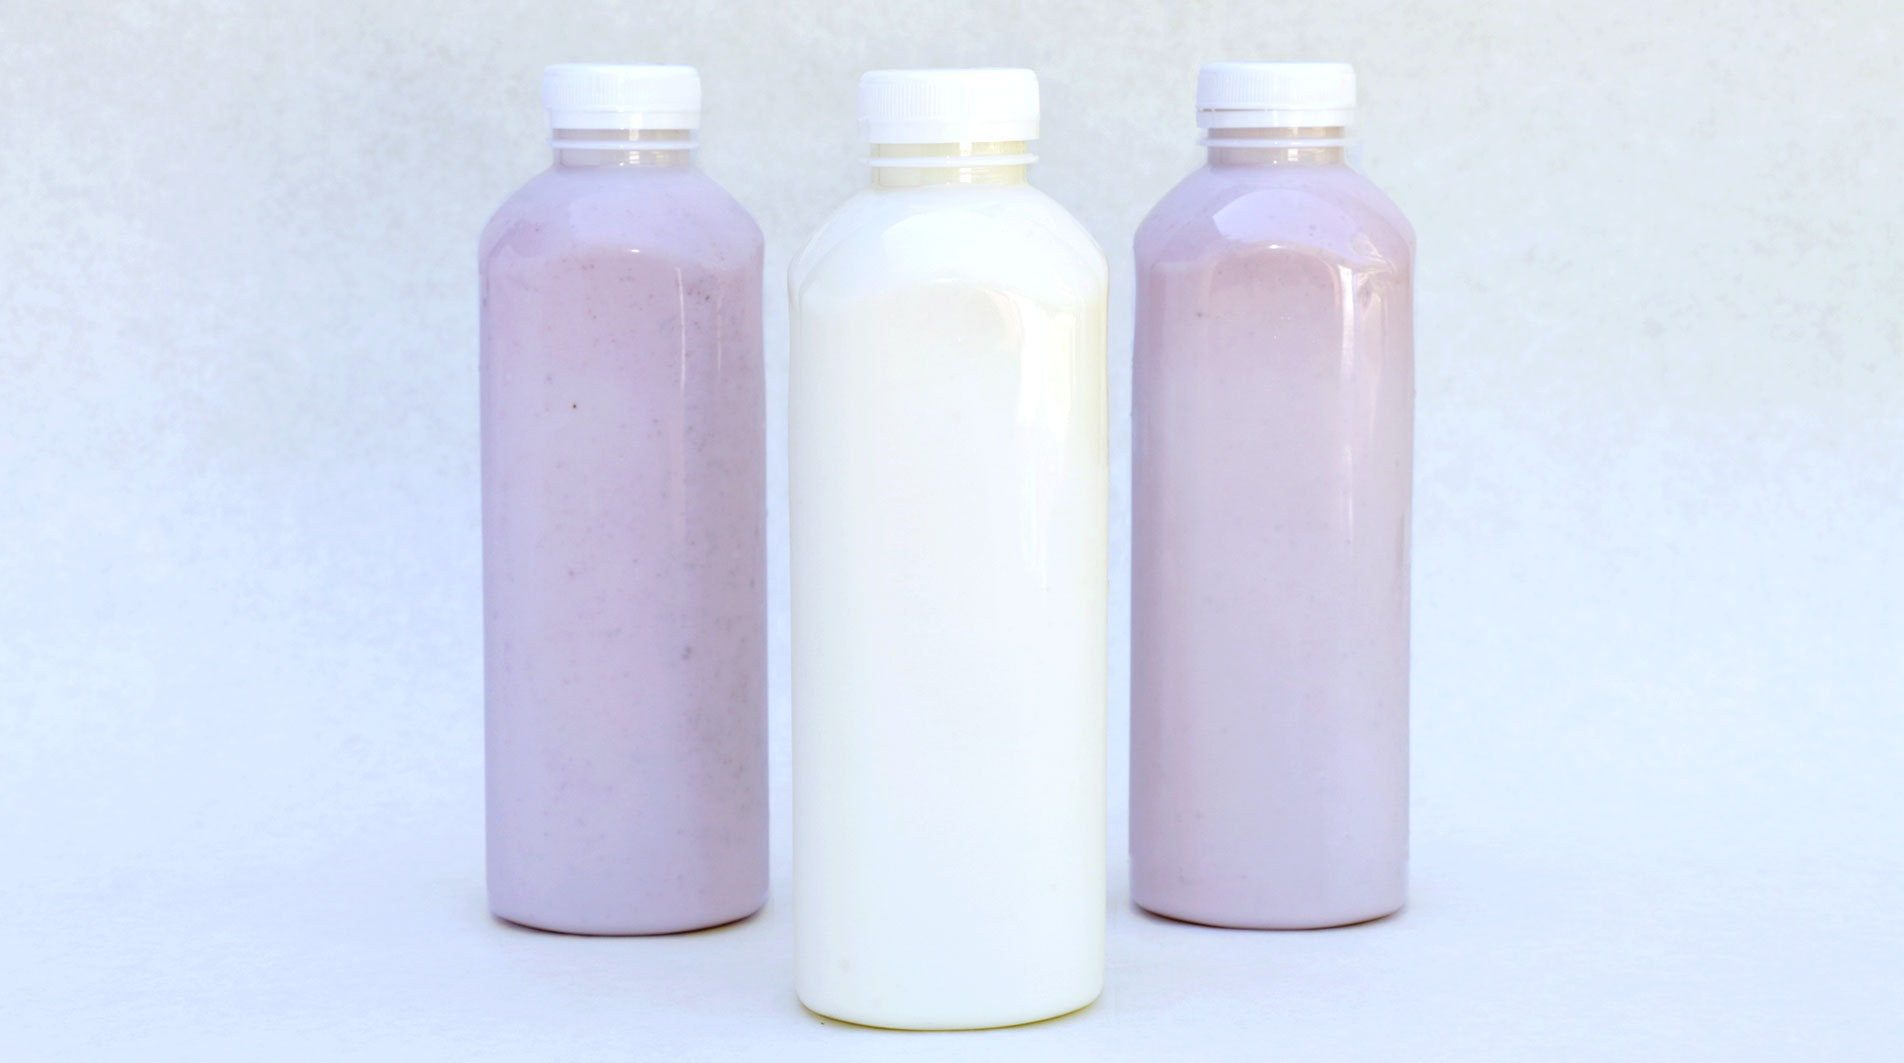
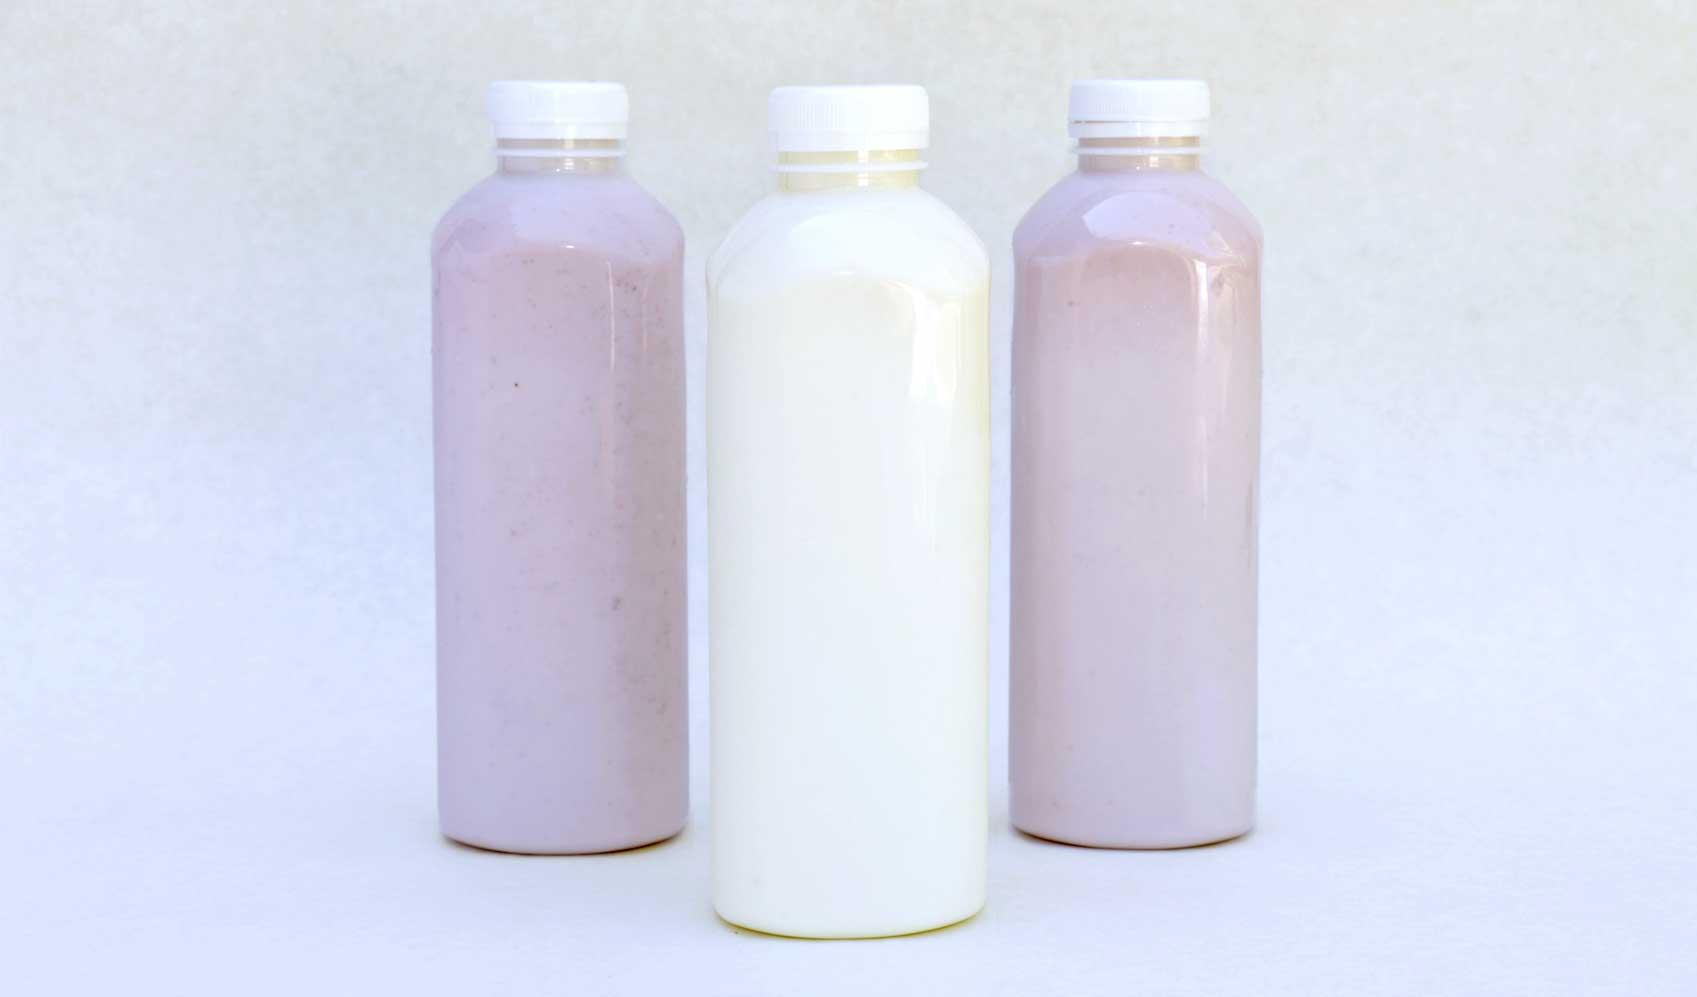
stock image replacement - set 1
istock images

diff --git a/html/products.html b/html/products.html
@@ -109,7 +109,7 @@
             </div>
 
 
-            <div class="double-promo"> <img class="small" src="../images/cupset-yogurt.png" alt="cupset-yogurt">
+            <div class="double-promo"> <img class="small" src="../images/cupset-yogurt.jpg" alt="cupset-yogurt">
       
               
                 <p class="top-pad"><i class="black">Cupset Yogurt - </i> In the cupset process, milk is inoculated with cultures, filled directly into cups and incubated at 110* F until the desired acidity is reached. After pH is reached, the yogurt is placed into a cooler, containing large fans-to successfully distribute air flow. </p>
@@ -156,7 +156,7 @@
             </div>
 
 
-            <div class="full-width"> <img class="small" src="../images/cupset-yogurt.png" alt="cupset yogurt">
+            <div class="full-width"> <img class="small" src="../images/cupset-yogurt.jpg" alt="cupset yogurt">
       
     
 
@@ -197,7 +197,7 @@
 
                 <p class="left-img">Sour Cream consists of the fermentation (or souring) of cream due to creating certain strains of lactic acid bacteria. </p>
 
-                  <img class="small right-img" src="../images/sour-cream.png" alt="sour cream">
+                  <img class="small right-img" src="../images/sour-cream.jpg" alt="sour cream">
               </div>
 
     </section>

diff --git a/html/contact.html b/html/contact.html
@@ -104,7 +104,7 @@
                 
                 </div> -->
 
-                <img class="small right-img" src="../images/map.jpg" alt="Visalia map">
+                <img class="small right-img" src="../images/map.png" alt="Visalia map">
 
                 <p class="left-img no-float">Situated in the heart of California's central valley, Visalia Dairy products are produced one of the single productive single agricultural counties in the country.</p>
 

diff --git a/css/main.css b/css/main.css
@@ -225,7 +225,7 @@ a:active {
 }
 
 #item9 {
-	background: url("../images/sample9.jpg") center center no-repeat;
+	background: url("../images/iStock_91765653_XLARGE.jpg") center center no-repeat;
 }
 
 
